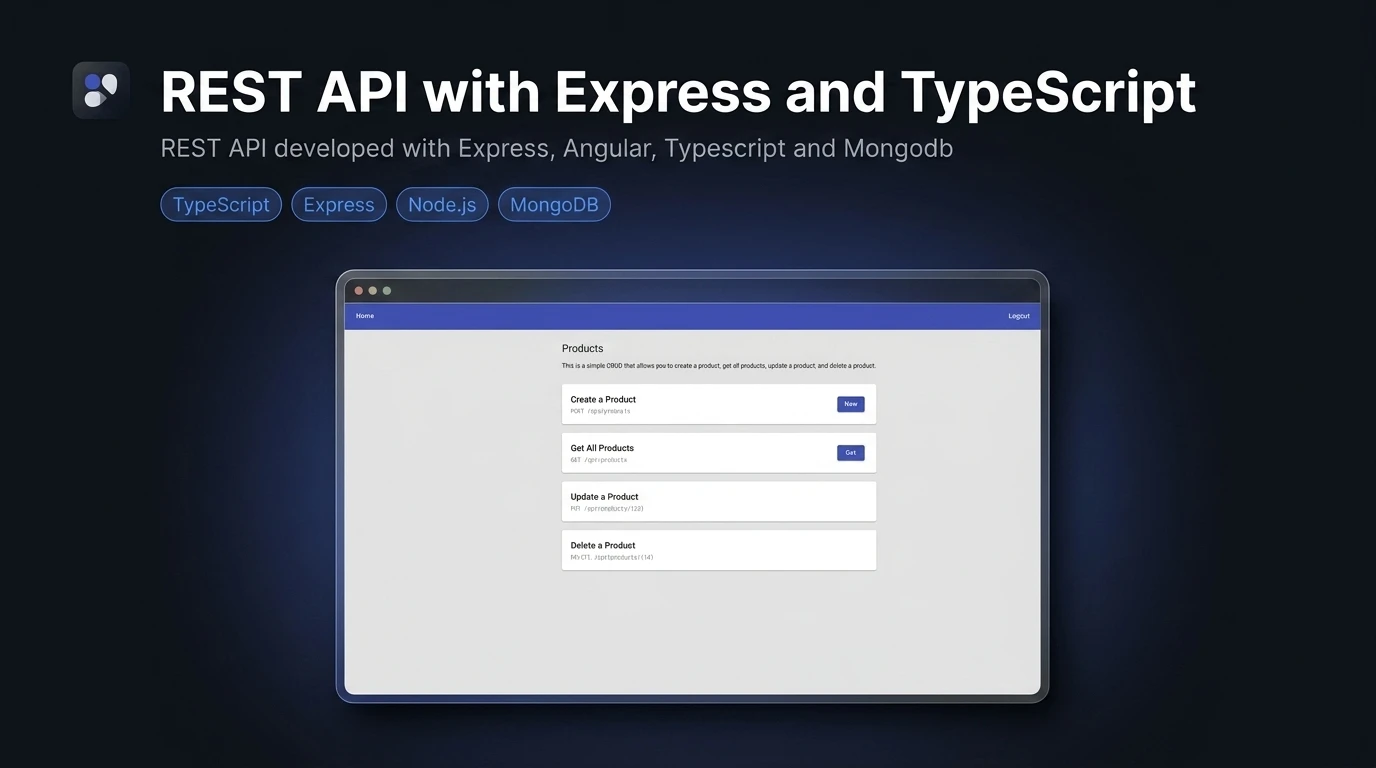
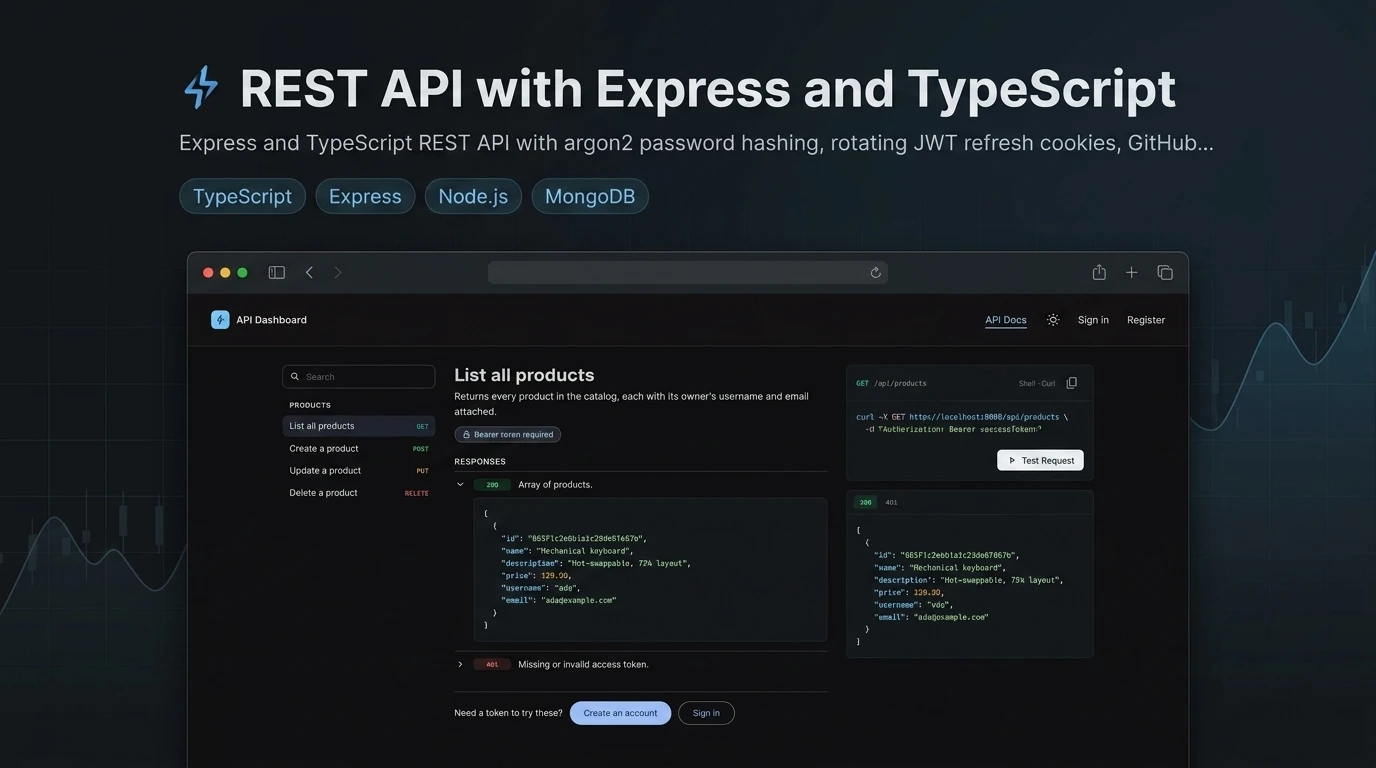
docs: sync README from studio

diff --git a/README.md b/README.md
@@ -10,7 +10,7 @@
   <a href='/'>
     <img
       src='screenshot.webp'
-      alt='Screenshot of the app'
+      alt='REST API docs dashboard listing product endpoints beside a sample JSON response and a curl snippet with a Test Request button.'
       width='100%'
     />
   </a>
@@ -36,7 +36,7 @@
 </div>
 
 <div align='center'>
-  REST API built with Express and TypeScript, featuring argon2 password hashing, JWT access tokens with rotating refresh cookies, GitHub and Google OAuth sign-in, and product CRUD with ownership checks. Ships with an Angular 20 dashboard that documents every endpoint and lets you call it live.
+  A REST API built with Express and TypeScript, featuring argon2id password hashing, 15-minute JWT access tokens with rotating refresh cookies, GitHub and Google OAuth, rate-limited credential endpoints, and product CRUD guarded by authentication and ownership middleware. Legacy HMAC accounts re-hash transparently on their next login. Ships with an Angular 20 dashboard that documents every endpoint, searches them from a sidebar and calls them live.
 
 [Demo][demo-link] · [Report issue](/issues) · [Suggest something](/issues)
 
